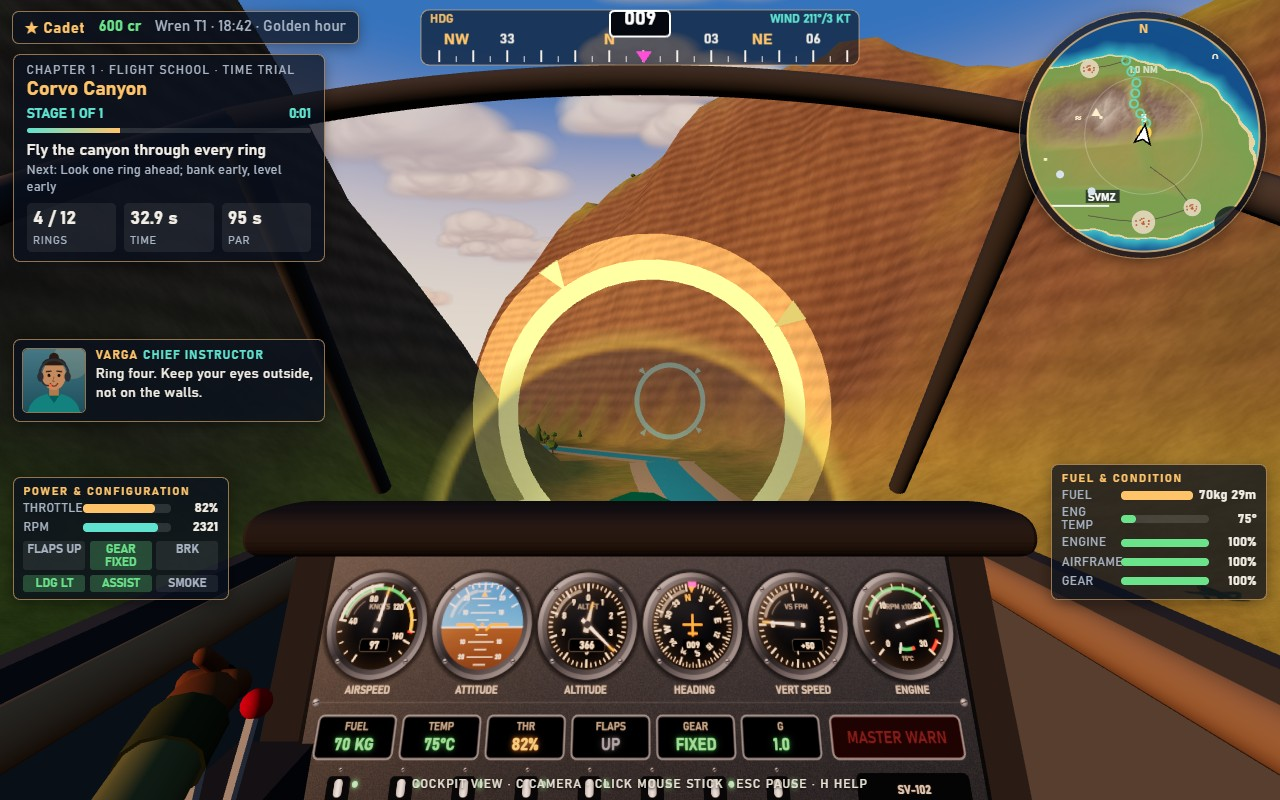
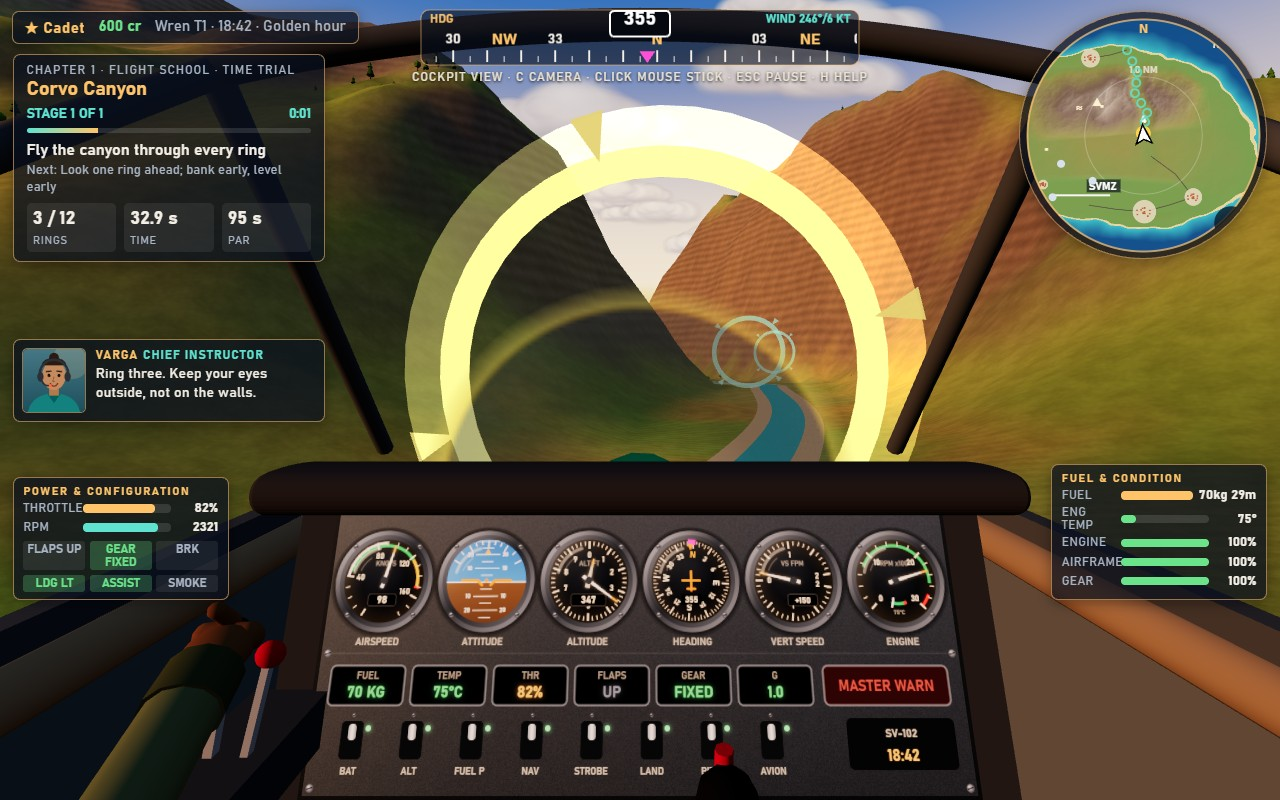
Cockpit shot: the whole panel in frame with gauges, readouts, the MASTER WARN lamp (unlit lamp now readable) and the switch row with its placards, the ring closer and bigger at ring three where both canyon walls catch the sun; in the cockpit the camera hint sits under the heading tape instead of ove

diff --git a/game/src/core/screenshotScenes.js b/game/src/core/screenshotScenes.js
@@ -50,20 +50,21 @@ export function stageScreenshot(name, game) {
   } else if (name === 'cockpit') {
     game.startMission(missionById('canyon-run'));
     const objective = game.runner.objective;
-    const ring = objective.jumpTo(4, game.runnerContext, 31.4);
+    const ring = objective.jumpTo(3, game.runnerContext, 31.4);
     const n = ring.normal;
-    const p = ring.position.clone().addScaledVector(n, -175);
+    const p = ring.position.clone().addScaledVector(n, -145);
     const heading = (THREE.MathUtils.radToDeg(Math.atan2(n.x, -n.z)) + 360) % 360;
     session.simulation.start(session.spec, { x: p.x, y: p.y + 2, z: p.z, heading, pitch: 1, speed: 52, flaps: 0, throttle: 0.82 }, { birds: false });
     game.controls.controls.throttle = 0.82;
     game.cameras.view = 'cockpit';
     run(game, 1.2);
-    game.hud.radio.say('ines', 'Ring four. Keep your eyes outside, not on the walls.', { priority: true });
+    game.hud.radio.say('ines', 'Ring three. Keep your eyes outside, not on the walls.', { priority: true });
     game.hud.radio.hold();
     run(game, 0.3);
-    // Glance down a little so the stick, the throttle and the pilot's gloves are in the frame.
-    game.controls.mouse.state.lookY = 0.09;
+    // Glance down a little so the whole panel, the stick, the throttle and the pilot's gloves are
+    // in the frame (the glance is applied to the cockpit camera directly, as a held free look).
     run(game, 1 / 60);
+    game.cameras.update(0, session.body, session.spec, game.world, { x: 0, y: 0.06 }, false);
   } else if (name === 'firefight') {
     // Second pass over the fire line on Calvera's south slope: the west flank is already out, the
     // Heron banks along the slope with its water curtain falling on the east hot spot, the smoke

diff --git a/game/styles/hud.css b/game/styles/hud.css
@@ -90,7 +90,7 @@ body { font-family: var(--font); font-size: calc(16px * var(--ui)); color: var(-
 #hud.is-cockpit #hud-aircraft-systems, #hud.is-cockpit #hud-fuel-and-damage { bottom: 12.5em; }
 
 #hud-camera-label { position: absolute; left: 50%; bottom: 14.3em; transform: translateX(-50%); font-size: 0.72em; color: #e9e2d4; letter-spacing: 0.12em; text-shadow: 0 1px 3px #000; white-space: nowrap; }
-#hud.is-cockpit #hud-camera-label { bottom: 0.8em; }
+#hud.is-cockpit #hud-camera-label { bottom: auto; top: 6.2em; }
 #hud-stick-indicator { position: absolute; left: 50%; top: 50%; width: 4.4em; height: 4.4em; margin: -2.2em 0 0 -2.2em; border: 1px solid rgba(255, 244, 220, 0.35); border-radius: 50%; opacity: 0; transition: opacity 0.4s; }
 #hud-stick-indicator.is-active { opacity: 1; }
 #hud-stick-indicator i { position: absolute; left: 50%; top: 50%; width: 0.7em; height: 0.7em; margin: -0.35em 0 0 -0.35em; border-radius: 50%; background: #ffc46a; box-shadow: 0 0 0.4em rgba(255, 196, 106, 0.8); }

diff --git a/game/src/aircraft/cockpitPanel.js b/game/src/aircraft/cockpitPanel.js
@@ -174,13 +174,13 @@ function drawAnnunciators(ctx, d) {
     ctx.shadowBlur = 0;
   });
   const warn = d.stall > 0.25 ? 'STALL' : !d.engineRunning ? 'ENGINE OUT' : d.fuelFrac < 0.1 ? 'LOW FUEL' : '';
-  ctx.fillStyle = warn ? '#ff3b2f' : '#2a0f0d';
+  ctx.fillStyle = warn ? '#ff3b2f' : '#3a1411';
   ctx.beginPath();
   ctx.roundRect(800, 256, 196, 56, 8);
   ctx.fill();
   ctx.strokeStyle = 'rgba(190,196,206,0.55)';
   ctx.stroke();
-  ctx.fillStyle = warn ? '#ffffff' : '#6a302a';
+  ctx.fillStyle = warn ? '#ffffff' : '#c4594b';
   ctx.font = `800 22px ${INSTRUMENT_FONT}`;
   ctx.fillText(warn || 'MASTER WARN', 898, 292);
 }
